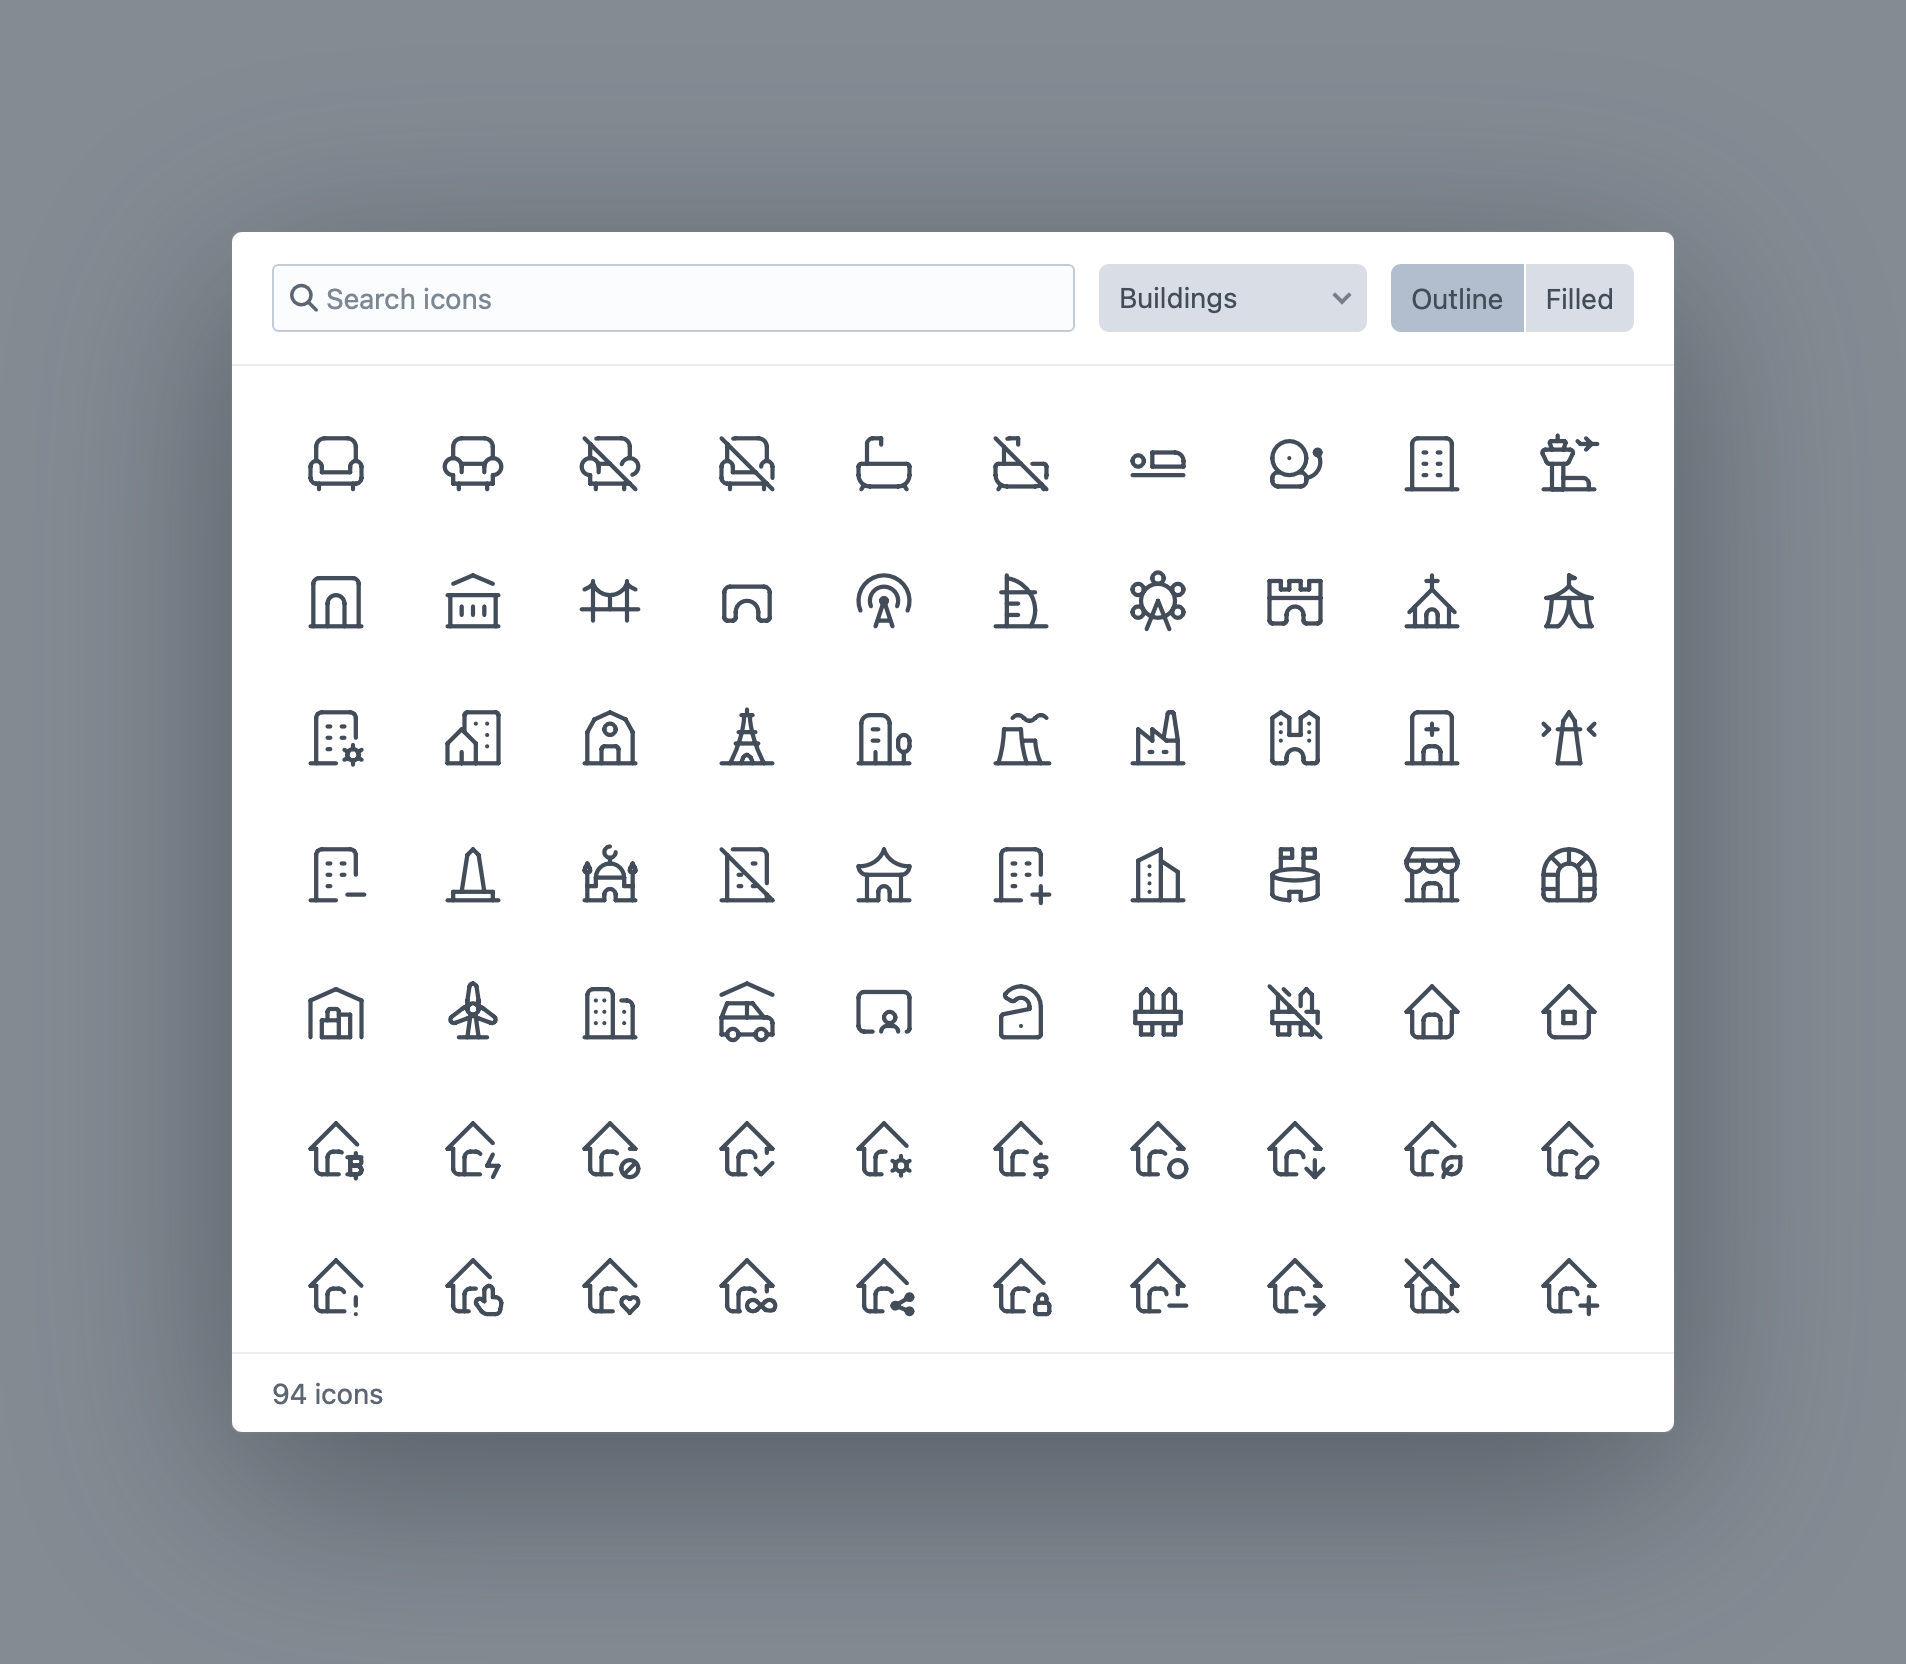
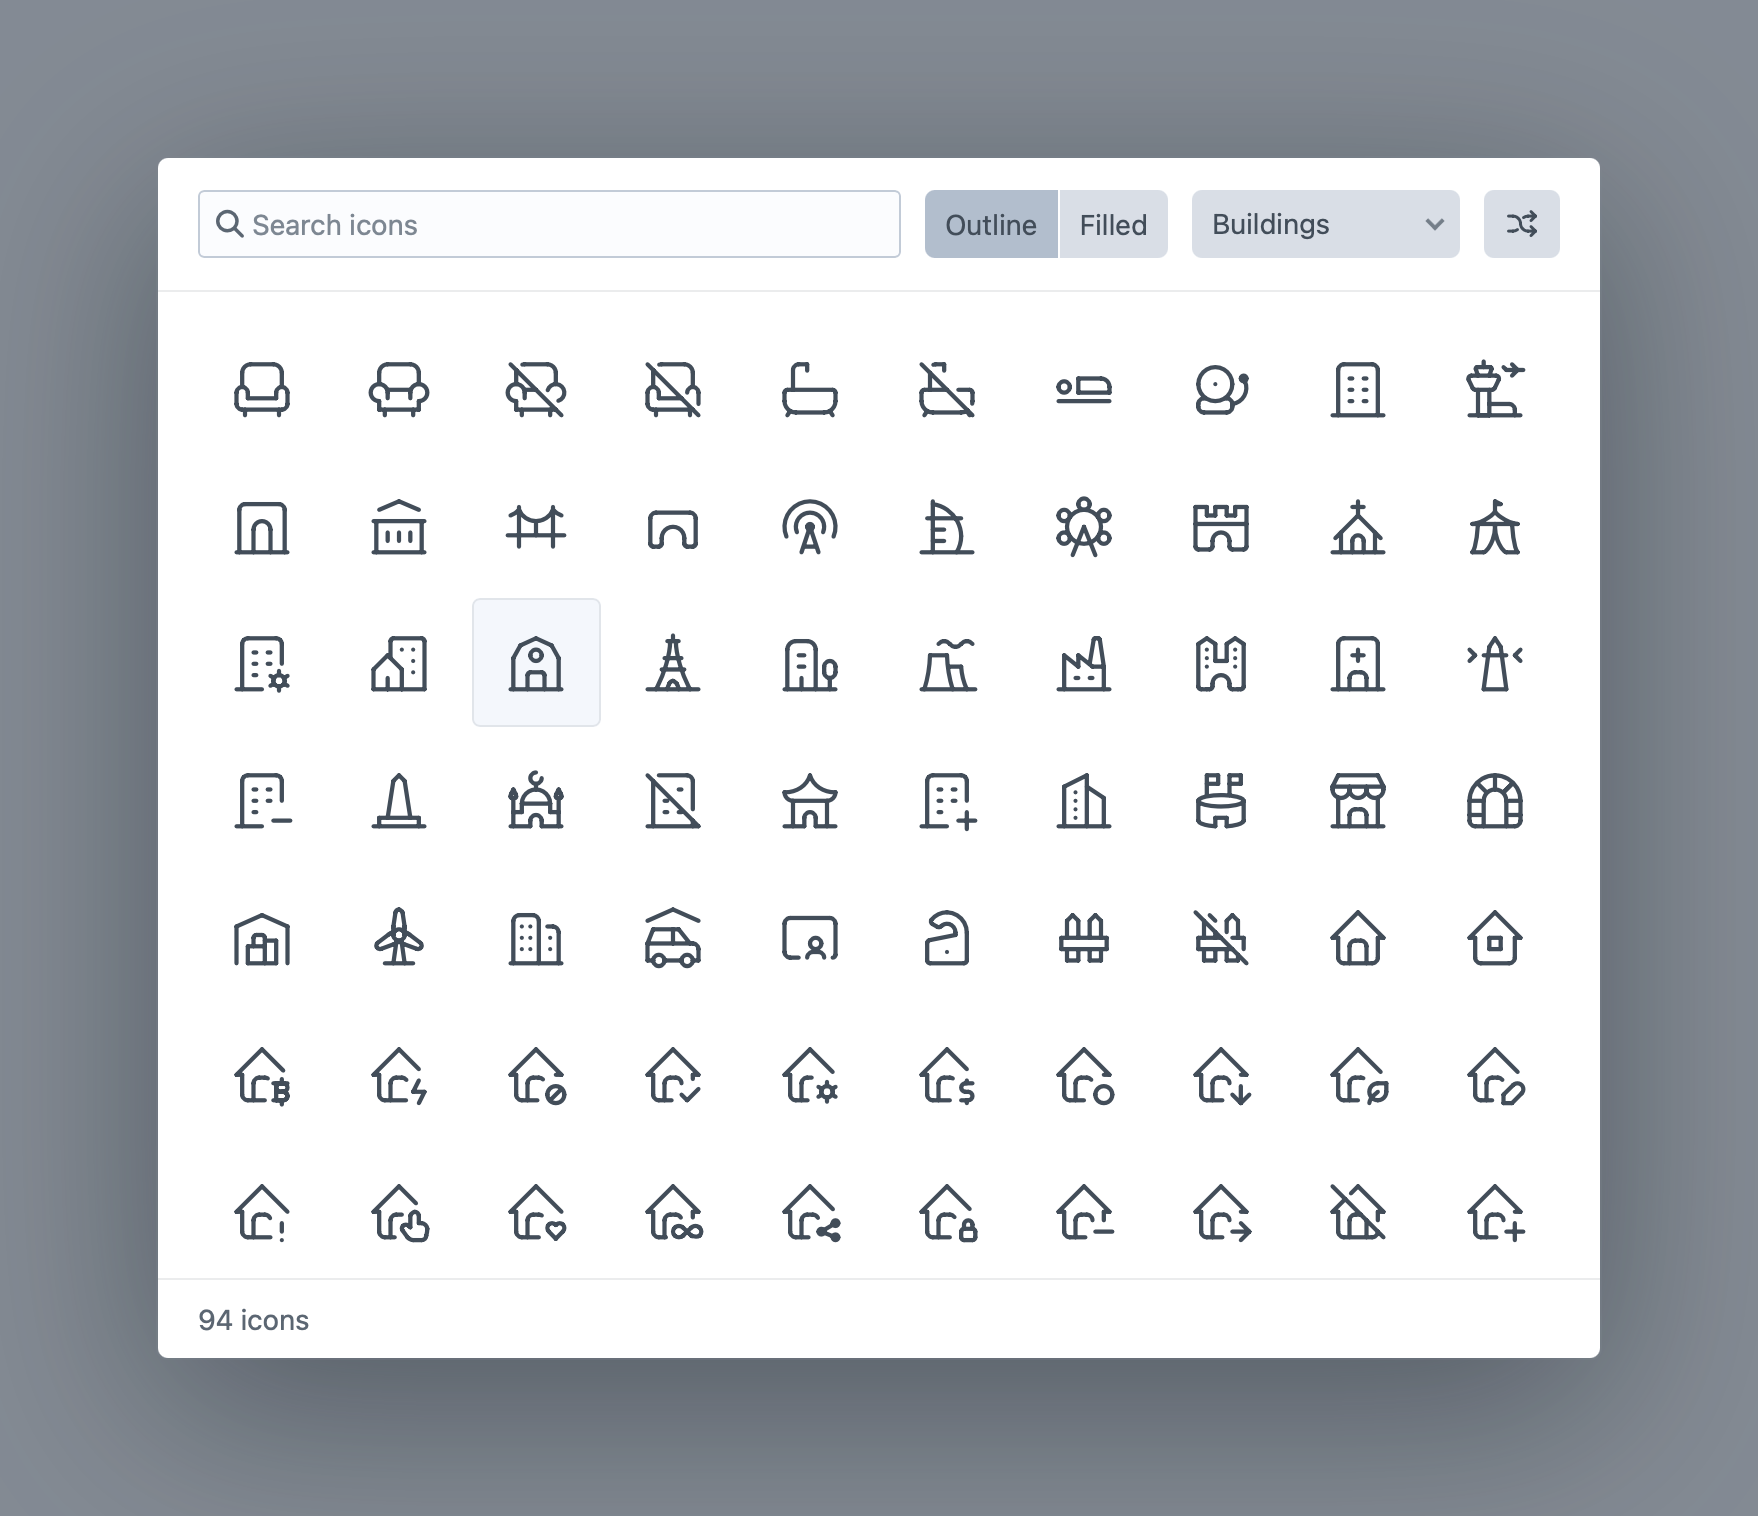
Picker: Show Random Button setting; scroll to selection on open; Down-from-search jump; filled-aware categories; selected/focus ring fixes

diff --git a/src/fields/TablerIconField.php b/src/fields/TablerIconField.php
@@ -25,6 +25,12 @@ class TablerIconField extends Field implements PreviewableFieldInterface, Thumba
      */
     public string $iconStyle = self::STYLE_ALL;
 
+    /**
+     * @var bool Show a Random button in the picker that highlights a random
+     * icon from the current results
+     */
+    public bool $showRandomButton = false;
+
     public function __construct(array $config = [])
     {
         // Remove settings that no longer exist
@@ -56,6 +62,7 @@ class TablerIconField extends Field implements PreviewableFieldInterface, Thumba
     {
         $rules = parent::defineRules();
         $rules[] = [['iconStyle'], 'in', 'range' => [self::STYLE_ALL, self::STYLE_OUTLINE, self::STYLE_FILLED]];
+        $rules[] = [['showRandomButton'], 'boolean'];
         return $rules;
     }
 
@@ -128,6 +135,7 @@ class TablerIconField extends Field implements PreviewableFieldInterface, Thumba
         $config = [
             'indexUrl' => $bundle->baseUrl . '/icons.json',
             'style' => $this->iconStyle,
+            'random' => $this->showRandomButton,
         ];
 
         $view->registerJs(
@@ -198,6 +206,12 @@ class TablerIconField extends Field implements PreviewableFieldInterface, Thumba
                 ['label' => Craft::t('tabler', 'Outline only'), 'value' => self::STYLE_OUTLINE],
                 ['label' => Craft::t('tabler', 'Filled only'), 'value' => self::STYLE_FILLED],
             ],
+        ]) . Cp::lightswitchFieldHtml([
+            'label' => Craft::t('tabler', 'Show Random Button'),
+            'instructions' => Craft::t('tabler', 'Adds a button to the picker that highlights a random icon from the current results.'),
+            'id' => 'showRandomButton',
+            'name' => 'showRandomButton',
+            'on' => $this->showRandomButton,
         ]);
     }
 }

diff --git a/CHANGELOG.md b/CHANGELOG.md
@@ -1,5 +1,13 @@
 # Changelog
 
+## 1.7.0 - 2026-07-14
+
+- Added a **Show Random Button** field setting: a shuffle button in the picker selects a random icon from the current results. Clicking focuses the icon (`Enter`/`Space` selects it), activating the button from the keyboard keeps focus on it so `Enter`/`Space` re-rolls, with `Tab` or `Down` moving to the selected icon.
+- The category dropdown is now filled-aware. When the filled style is active it only lists categories containing filled icons, and the dropdown now sits after the Outline/Filled tabs it depends on.
+- Pressing `Down` in the picker’s search field now jumps focus into the grid, to the currently-selected icon when there is one, or the first result.
+- The currently-selected icon in the picker now uses the hover styling, and stays highlighted when the picker is reopened.
+- Opening the picker with an icon selected now scrolls to it (switching to its outline/filled tab if needed) and makes it the keyboard entry point.
+
 ## 1.6.0 - 2026-07-09
 
 - The field can now be used as an entry type’s Thumbnail Source, showing the selected icon as the entry’s thumbnail in element indexes and cards.